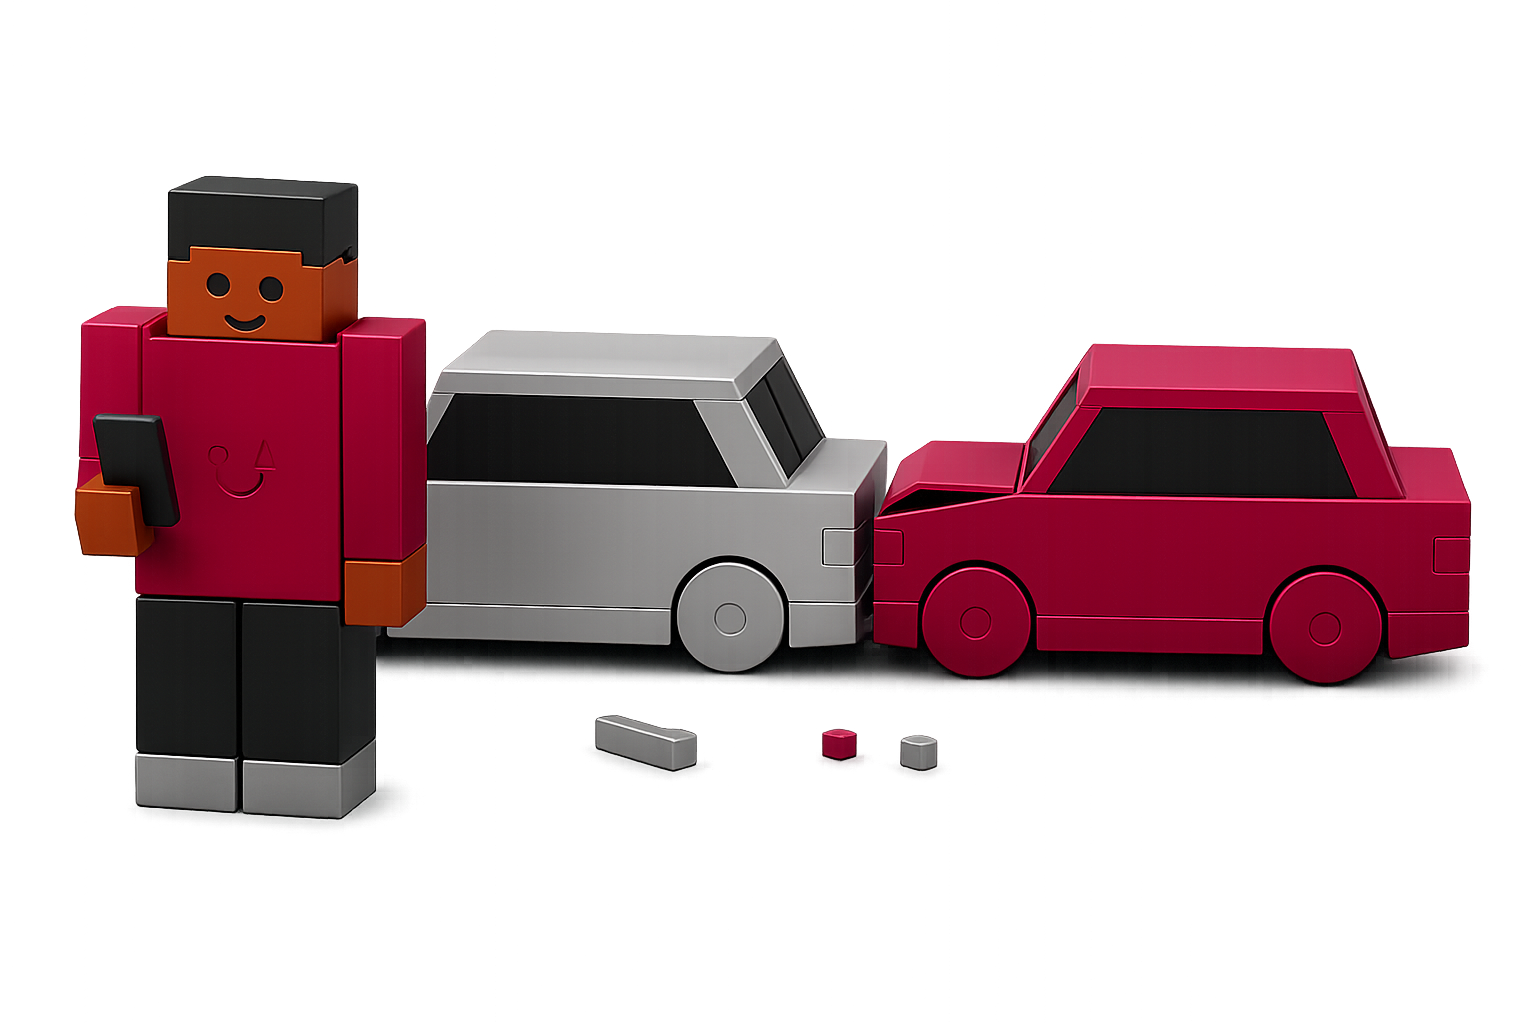
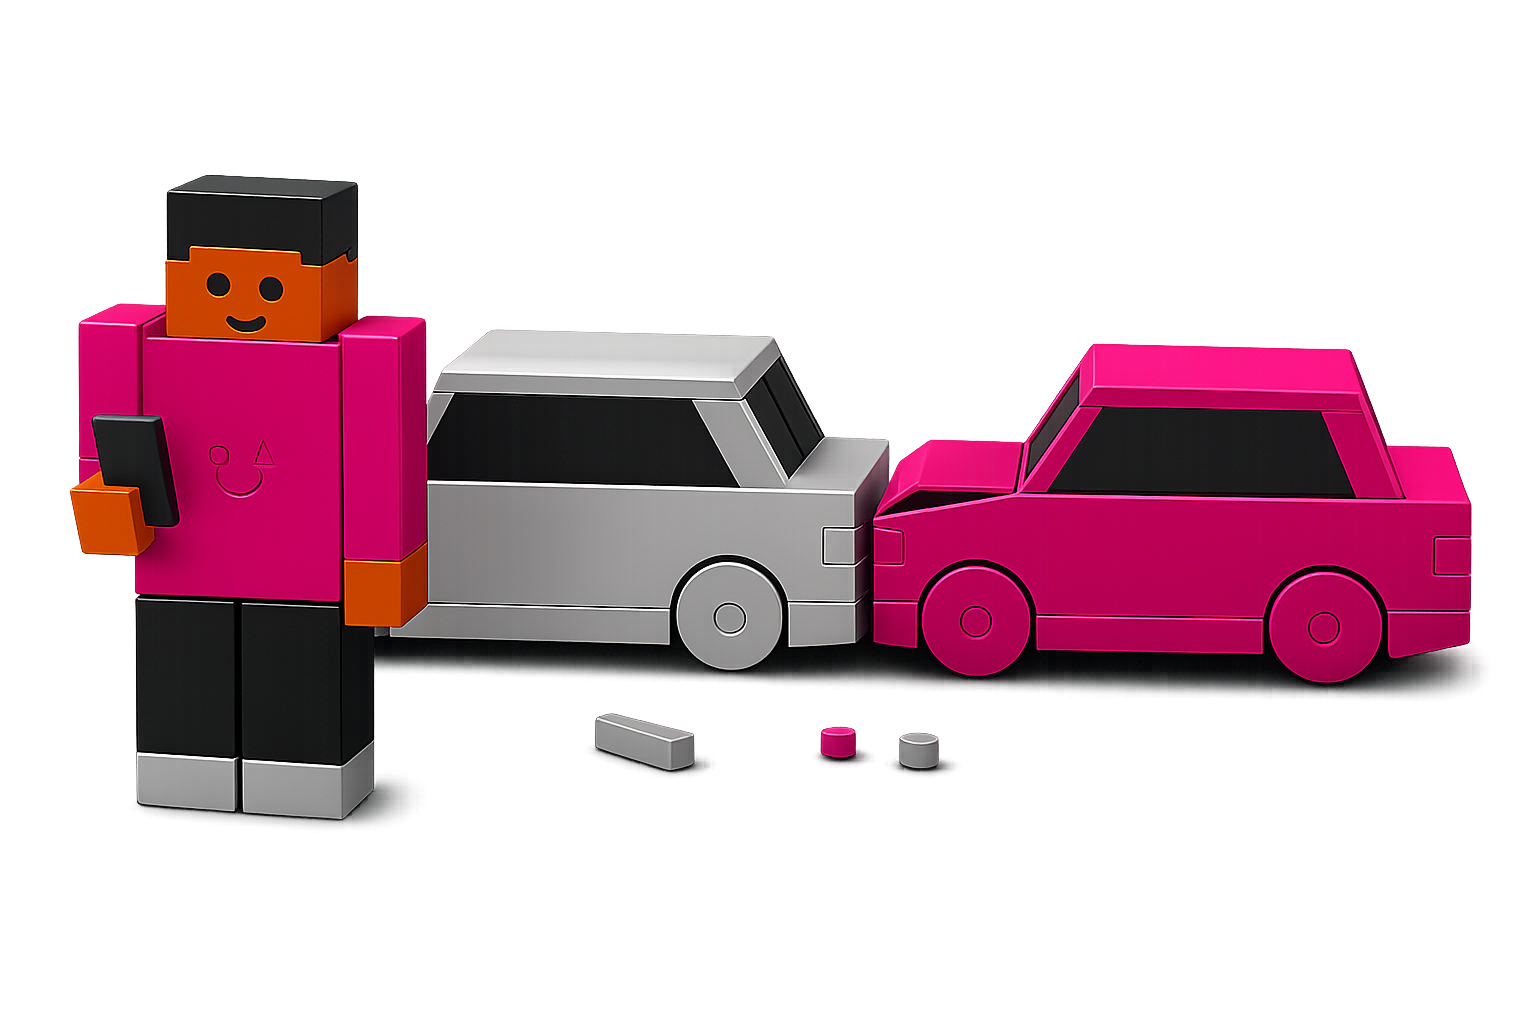
don't remember what really

diff --git a/indexV3.html b/indexV3.html
@@ -85,7 +85,7 @@
         <div class="step">
           <div class="step-number">2</div>
           <h3>Choose</h3>
-          <p>Bring your Attorney/Doctor or let us recommend great ones.</p>
+          <p>Pick your own Attorney/Doctor or let us recommend great ones.</p>
         </div>
         <div class="step">
           <div class="step-number">3</div>
@@ -105,7 +105,6 @@
         <li>Control case from your phone</li>
         <li>24/7 live communication</li>
         <li>Why not Getting played??</li>
-        
       </ul>
     </section>
     <section class="final final-simple">